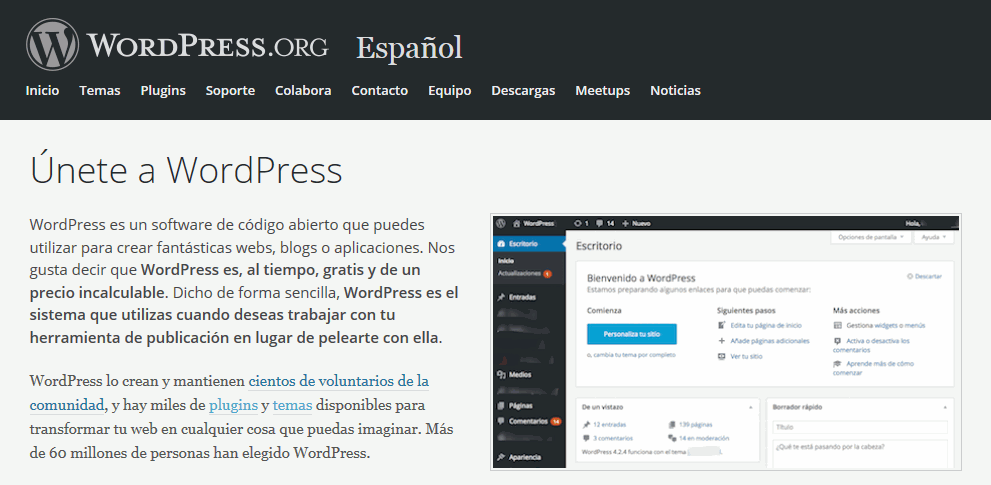
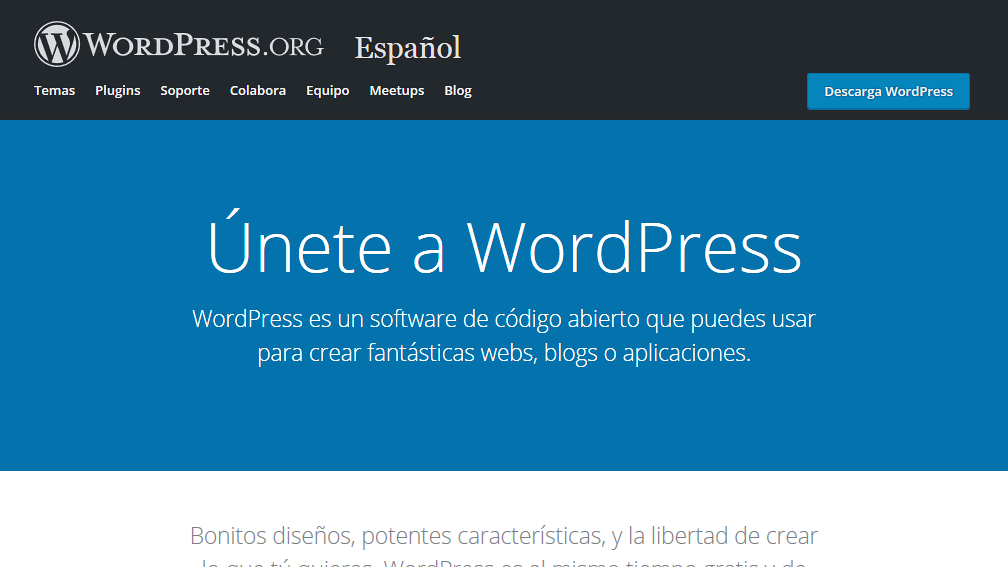
Actualizo ejercicios WordPress 1

diff --git a/lecciones/wordpress-1.html b/lecciones/wordpress-1.html
@@ -59,11 +59,11 @@
     <p><img src="../varios/iconos/icono-warning.svg" alt="¡Atención!" title="¡Atención!" width="55" height="48" />Como un ejercicio posterior consiste en la actualización de WordPress, en este ejercicio no se debe descargar la <strong>última</strong> versión de WordPress.</p>
     <ol>
       <li>Visite la página web del proyecto WordPress en español.
-        <p class="captura"><img src="../img/wordpress/1-1-e-1-descarga.png" alt="WordPress - Descarga en español" width="991" height="485" /></p>
+        <p class="captura"><img src="../img/wordpress/1-1-e-1-descarga.png" alt="WordPress - Descarga en español" width="1008" height="567" /></p>
       </li>
-      <li>Descargue la versión <strong>WordPress 4.7 (en español)</strong>, publicada el 11 de diciembre de 2016. Se recomienda esa versión ya que estos ejercicios se han preparado para ella.<br />
+      <li>Descargue la versión <strong>WordPress 4.9 (en español)</strong>, publicada el 16 de noviembre de 2017. Se recomienda esa versión ya que estos ejercicios se han preparado para ella.<br />
 
-        <p>Si la versión <strong>WordPress 4.7 (en español)</strong> ya no está disponible en la web del programa, puede descargarla desde la página de <a href="../otros/descarga-aplicaciones.html">Descarga de aplicaciones</a>.</p>
+        <p>Si la versión <strong>WordPress 4.9 (en español)</strong> ya no está disponible en la web del programa, puede descargarla desde la página de <a href="../otros/descarga-aplicaciones.html">Descarga de aplicaciones</a>.</p>
       </li>
       <li>Descomprima WordPress en la carpeta adecuada para poder ejecutarlo en el servidor local.</li>
     </ol>
@@ -86,15 +86,8 @@
           <li>Visibilidad para los buscadores: <span class="codigo-modificacion">dejar desmarcado</span></li>
         </ul>
       </li>
-      <li>Una vez instalado, visite el blog. Se debe abrir una página similar a esta:
-        <p><strong>Nota</strong>: Aunque no escriba la contraseña, la página se ve como usuario administrador.</p>
-        <p class="captura"><img src="../img/wordpress/1-2-e-1-instalar.jpg" alt="WordPress. Aspecto inicial" width="600" height="460" /></p>
-      </li>
-      <li>Cierre la sesión como administrador y visite el blog.
-        <p class="captura">
-          <img src="../img/wordpress/1-2-e-2-instalar.png" alt="WordPress. Cerrar sesión" width="370" height="550" />
-          <img src="../img/wordpress/1-2-e-3-instalar.jpg" alt="WordPress. Aspecto inicial" width="600" height="460" />
-        </p>
+      <li>Una vez instalado, visite el blog sin entrar como administrador. Se debe abrir una página similar a esta:
+        <p class="captura"><img src="../img/wordpress/1-2-e-1-instalar.jpg" alt="WordPress. Aspecto inicial" width="600" height="337" /></p>
       </li>
     </ol>
   </section>
@@ -124,12 +117,12 @@
     <p><img src="../varios/iconos/icono-warning.svg" alt="¡Atención!" title="¡Atención!" width="55" height="48" />Comentarios previos:</p>
     <ul>
       <li>En general, antes de actualizar WordPress se recomienda realizar siempre una copia de seguridad completa. En este caso, como se acaba de instalar WordPress y no se ha introducido ninguna información adicional, la copia de seguridad se realizará después de la actualización (en el siguiente ejercicio).</li>
-      <li>WordPress actualiza automáticamente las versiones menores (4.7, 4.7.1, 4.7.2, etc) por lo que posiblemente al llegar a este ejercicio, el WordPress 4.7 instalado en los ejercicios anteriores ya se haya actualizado. La actualización que se mostrará es la del tema Twenty Seventeen.</li>
-      <li>Si se quiere probar una actualización, sería necesario instalar una versión anterior de WordPress (por ejemplo, la versión 4.6), aunque en ese caso a continuación habría que instalar el tema Twenty Seventeen, ya que cada tema predeterminado (Twenty Seventeen, Twenty Sixteen, etc. se consideran temas distintos, no actualizaciones unos de otros).</li>
+      <li>WordPress actualiza automáticamente las versiones menores (4.9, 4.9.1, etc) por lo que antes de llegar a este ejercicio, el WordPress 4.9 instalado en los ejercicios anteriores ya se haya actualizado. La actualización que se mostrará es la del tema Twenty Seventeen.</li>
+      <li>Si se quiere probar una actualización, sería necesario instalar una versión anterior de WordPress (por ejemplo, la versión 4.8).</li>
     </ul>
 
     <ol>
-      <li>En caso necesario, actualice WordPress a la última versión disponible (actualmente -enero de 2017- WordPress 4.7.2), utilizando la actualización automática disponible en el escritorio de WordPress.</li>
+      <li>En caso necesario, actualice WordPress a la última versión disponible (actualmente -enero de 2018- WordPress 4.9.1), utilizando la actualización automática disponible en el escritorio de WordPress.</li>
       <li>En su caso, actualice también los plug-ins, temas y traducciones, utilizando la actualización automática disponible en el escritorio de WordPress.
         <p>En estos ejercicios se ha utilizado el tema Twenty Seventeen (2017).</p>
       </li>
@@ -247,7 +240,7 @@
   </section>
 
   <footer>
-    <p class="ultmod">Última modificación de esta página: 7 de febrero de 2017</p>
+    <p class="ultmod">Última modificación de esta página: 11 de enero de 2018</p>
 
     <p class="licencia"><a rel="license" href="https://creativecommons.org/licenses/by-sa/4.0/deed.es_ES"><img src="../varios/iconos/icono-cc-by-sa.svg" alt="Licencia Creative Commons" title="Licencia Creative Commons BY-SA" width="120" height="42" /></a><br />
       Esta página forma parte del curso <strong><a href="http://www.mclibre.org/consultar/webapps/">Aplicaciones web</a></strong> por <a href="http://www.mclibre.org/" rel="author">Bartolomé Sintes Marco</a><br />

diff --git a/index.html b/index.html
@@ -76,6 +76,32 @@
     </section>
 
     <section>
+      <h2>Blogs</h2>
+
+      <p><img src="varios/iconos/logo-wordpress.svg" alt="logo WordPress" width="100" height="100" /></p>
+
+      <p><a href="lecciones/wordpress.html">WordPress</a></p>
+      <ol>
+        <li>
+          <a href="lecciones/wordpress-1.html">Ejercicios</a> -
+          <a href="lecciones/wordpress-1-soluciones.html">Soluciones</a>
+        </li>
+        <li>
+          <a href="lecciones/wordpress-2.html">Ejercicios</a> -
+          <a href="lecciones/wordpress-2-soluciones.html">Soluciones</a>
+        </li>
+        <li>
+          <a href="lecciones/wordpress-3.html">Ejercicios</a> -
+          <a href="lecciones/wordpress-3-soluciones.html">Soluciones</a>
+        </li>
+        <li>
+          <a href="lecciones/wordpress-4.html">Ejercicios</a> -
+          <a href="lecciones/wordpress-4-soluciones.html">Soluciones</a>
+        </li>
+      </ol>
+    </section>
+
+    <section>
       <h2>Instaladores de aplicaciones</h2>
 
       <p><img src="varios/iconos/logo-bitnami.svg" alt="logo Bitnami" width="100" height="100" /></p>
@@ -126,32 +152,6 @@
         <li>
           <a href="lecciones/nextcloud-2.html">Ejercicios</a> -
           <a href="lecciones/nextcloud-2-soluciones.html">Soluciones</a>
-        </li>
-      </ol>
-    </section>
-
-    <section>
-      <h2>Blogs</h2>
-
-      <p><img src="varios/iconos/logo-wordpress.svg" alt="logo WordPress" width="100" height="100" /></p>
-
-      <p><a href="lecciones/wordpress.html">WordPress</a></p>
-      <ol>
-        <li>
-          <a href="lecciones/wordpress-1.html">Ejercicios</a> -
-          <a href="lecciones/wordpress-1-soluciones.html">Soluciones</a>
-        </li>
-        <li>
-          <a href="lecciones/wordpress-2.html">Ejercicios</a> -
-          <a href="lecciones/wordpress-2-soluciones.html">Soluciones</a>
-        </li>
-        <li>
-          <a href="lecciones/wordpress-3.html">Ejercicios</a> -
-          <a href="lecciones/wordpress-3-soluciones.html">Soluciones</a>
-        </li>
-        <li>
-          <a href="lecciones/wordpress-4.html">Ejercicios</a> -
-          <a href="lecciones/wordpress-4-soluciones.html">Soluciones</a>
         </li>
       </ol>
     </section>

diff --git a/otros/descarga-aplicaciones.html b/otros/descarga-aplicaciones.html
@@ -50,6 +50,10 @@
             <a href="http://www.mclibre.org/descargar/webapps/1718/opencart-3-0-2-0.zip">OpenCart 3.0.2.0 (12/07/17, 15,7 MB)</a> -
             <a href="http://www.mclibre.org/descargar/webapps/1718/opencart-3-0-2-0-es-es.zip">Traducción al español (de España) de OpenCart 3.0.2.0 (08/01/18, 326 KB)</a>, disponible en <a href="https://github.com/BartolomeSintes/copia-opencart-spanish">GitHub</a> y realizada a partir de la traducción al español de Chile disponible en <a href="https://github.com/burbuja/opencart-spanish">GitHub</a>.
           </li>
+          <li>WordPress:
+            <a href="http://www.mclibre.org/descargar/webapps/1718/wordpress_4-9_es-ES.zip">WordPress 4.9 en español (16/11/17)</a> -
+            <a href="http://www.mclibre.org/descargar/webapps/1718/wordpress_4-9-1_es-ES.zip">WordPress 4.9.1 en español (29/11/17)</a>
+          </li>
         </ul>
       </li>
       <li>Curso 2016/17
@@ -179,7 +183,7 @@
   </section>
 
   <footer>
-    <p class="ultmod">Última modificación de esta página: 9 de enero de 2018</p>
+    <p class="ultmod">Última modificación de esta página: 11 de enero de 2018</p>
 
     <p class="licencia"><a rel="license" href="https://creativecommons.org/licenses/by-sa/4.0/deed.es_ES"><img src="../varios/iconos/icono-cc-by-sa.svg" alt="Licencia Creative Commons" title="Licencia Creative Commons BY-SA" width="120" height="42" /></a><br />
       Esta página forma parte del curso <strong><a href="http://www.mclibre.org/consultar/webapps/">Aplicaciones web</a></strong> por <a href="http://www.mclibre.org/" rel="author">Bartolomé Sintes Marco</a><br />

diff --git a/lecciones/opencart-1-soluciones.html b/lecciones/opencart-1-soluciones.html
@@ -85,13 +85,8 @@
       <li>Una vez descargado OpenCart, descomprima el archivo descargado en una carpeta y copie el contenido de la carpeta <strong>upload</strong> en una carpeta accesible desde el servidor local. La carpeta descomprimida sin la carpeta upload se podrá borrar posteriormente una vez consultados los ficheros de ayuda a la instalación.
         <p>En estas soluciones, de acuerdo con las <a href="../otros/configuracion.html">recomendaciones de configuración general</a> de estos apuntes, se supondrá que:</p>
         <ul>
-          <li>OpenCart se encuentra en la carpeta <strong><strong>:</strong></strong>
-            <p><strong><strong>Mis documentos &gt; IAW Nombre-de-alumno &gt; Aplicaciones &gt; opencart</strong></strong>
-            </p>
-          </li>
-          <li>al ejecutar desde Eclipse el fichero <strong>index.php</strong> de OpenCart, se abrirá en el navegador la dirección
-            <p><strong>http://localhost/nombre-de-alumno/webapps/opencart/index.php</strong></p>
-          </li>
+          <li>OpenCart se encuentra en la carpeta: <strong>Mis documentos &gt; IAW Nombre-de-alumno &gt; Aplicaciones &gt; opencart</strong></li>
+          <li>OpenCart se abrirá en la dirección <strong>http://localhost/nombre-de-alumno/webapps/opencart/index.php</strong></li>
         </ul>
       </li>
       <li>Cree con phpMyAdmin un usuario de MySQL con nombre <strong>iaw_opencart_1</strong>, contraseña <strong>iaw_opencart_1</strong> y base de datos <strong>iaw_opencart_1</strong>.

diff --git a/antiguas/mediawiki-1-soluciones.html b/antiguas/mediawiki-1-soluciones.html
@@ -90,13 +90,8 @@
       <li>Una vez descargado MediaWiki, descomprima el fichero comprimido en una carpeta accesible desde el servidor local.
         <p>En estos ejercicios, de acuerdo con las <a href="../otros/configuracion.html">recomendaciones de configuración general</a> de estos apuntes, se supondrá que:</p>
         <ul>
-          <li>MediaWiki se encuentra en la carpeta <strong><strong>:</strong></strong>
-            <p><strong><strong>Mis documentos &gt; IAW Nombre-de-alumno &gt; aplicaciones &gt; mediawiki</strong></strong>
-            </p>
-          </li>
-          <li>al ejecutar desde Eclipse el fichero <strong>index.php</strong> de MediaWiki, se abrirá en el navegador la dirección
-            <p><strong>http://localhost/nombre-de-alumno/iaw/aplicaciones/mediawiki/index.php</strong></p>
-          </li>
+          <li>MediaWiki se encuentra en la carpeta: <strong>Mis documentos &gt; IAW Nombre-de-alumno &gt; aplicaciones &gt; mediawiki</strong></li>
+          <li>Media wiki se abrirá en la dirección: <strong>http://localhost/nombre-de-alumno/iaw/aplicaciones/mediawiki/index.php</strong></li>
         </ul>
       </li>
       <li>Abra <strong>mediawiki/index.php</strong> en Eclipse. MediaWiki detecta que no existe el archivo de configuración LocalSettings.php y que es necesario utilizar el asistente de instalación.

diff --git a/antiguas/phpbb-1-soluciones.html b/antiguas/phpbb-1-soluciones.html
@@ -68,13 +68,8 @@
       <li>Una vez descargado phpBB, simplemente se debe descomprimir en una carpeta accesible desde el servidor local.
         <p>En estos ejercicios, de acuerdo con las <a href="../otros/configuracion.html">recomendaciones de configuración general</a> de estos apuntes, se supondrá que:</p>
         <ul>
-          <li>phpBB se encuentra en la carpeta <strong><strong>:</strong></strong>
-            <p><strong><strong>Mis documentos &gt; IAW Nombre-de-alumno &gt; aplicaciones &gt; phpbb</strong></strong>
-            </p>
-          </li>
-          <li>al ejecutar desde Eclipse el fichero <strong>index.php</strong> de phpBB, se abrirá en el navegador la dirección
-            <p><strong>http://localhost/nombre-de-alumno/iaw/aplicaciones/phpbb/index.php</strong></p>
-          </li>
+          <li>phpBB se encuentra en la carpeta: <strong>Mis documentos &gt; IAW Nombre-de-alumno &gt; aplicaciones &gt; phpbb</strong></li>
+          <li>phpBB se abrirá en la dirección <strong>http://localhost/nombre-de-alumno/iaw/aplicaciones/phpbb/index.php</strong></li>
         </ul>
       </li>
     </ol>

diff --git a/lecciones/phpmyadmin-1-soluciones.html b/lecciones/phpmyadmin-1-soluciones.html
@@ -128,13 +128,8 @@
 
     <p>En estos ejercicios, de acuerdo con las <a href="../otros/configuracion.html">recomendaciones de configuración general</a> de estos apuntes, se supondrá que:</p>
     <ul>
-      <li>phpMyAdmin se encuentra en la carpeta <strong><strong>:</strong></strong>
-        <p><strong><strong>Mis documentos &gt; IAW Nombre-de-alumno &gt; Aplicaciones &gt;phpmyadmin</strong></strong>
-        </p>
-      </li>
-      <li>al ejecutar desde Eclipse el fichero <strong>index.php</strong> de phpMyAdmin, se abrirá en el navegador la dirección
-        <p><strong>http://localhost/nombre-de-alumno/webapps/phpmyadmin/index.php</strong></p>
-      </li>
+      <li>phpMyAdmin se encuentra en la carpeta: <strong>Mis documentos &gt; IAW Nombre-de-alumno &gt; Aplicaciones &gt;phpmyadmin</strong></li>
+      <li>phpMyAdmin se abrirá en la dirección: <strong>http://localhost/nombre-de-alumno/webapps/phpmyadmin/index.php</strong></li>
     </ul>
 
     <p>La página de inicio de phpMyAdmin es el fichero <strong>index.php</strong>.</p>
